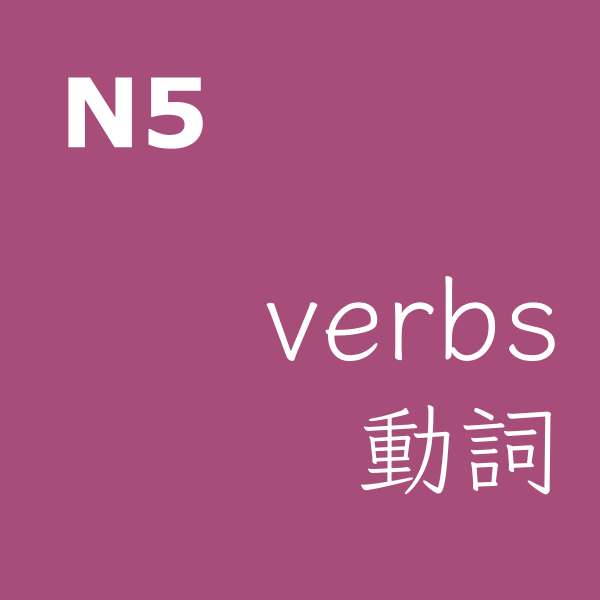
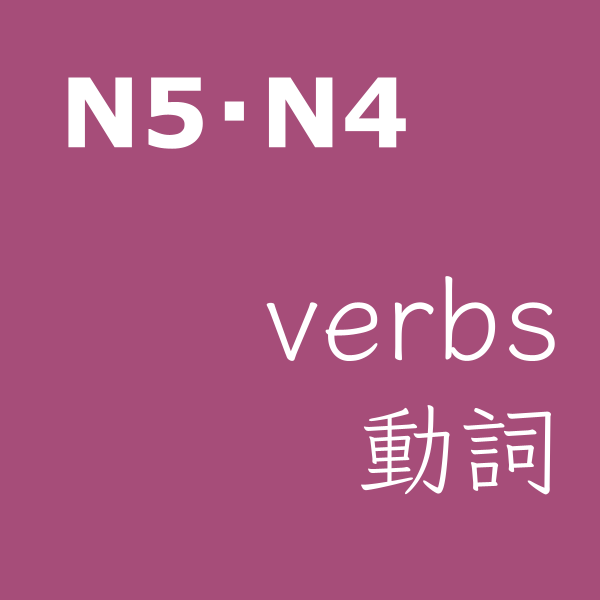
N5-N4 verb and adjectives merged

Changed region(s): [[0.45, 0.12, 0.69, 0.27], [0.36, 0.15, 0.42, 0.21]]

diff --git a/N5_Adjectives.html b/N5_Adjectives.html
@@ -5,7 +5,7 @@
     <meta name="author" content="Shovon Hasan">
     <meta name="copyright" content="©2024 株式会社LifeArk">
     <meta name="viewport" content="width=device-width, initial-scale=1.0">
-    <title>LifeArk Japanese education: N5 Adjectives</title>
+    <title>LifeArk Japanese education: N5・N4 Adjectives</title>
     <link href="https://fonts.googleapis.com/css2?family=Klee+One:wght@400;600&display=swap" rel="stylesheet">
     <link rel="stylesheet" href="css/common.css">
     <link rel="stylesheet" href="css/game.css">
@@ -49,10 +49,10 @@
         <div id="words_list-container">
             <div class="header-image">
                 <img src="assets/image/LifeArk_Nihongo_logo.png" />
-                <h2 style="text-align: center; margin: 0px;">N5 বিশেষণ</h2>
+                <h2 style="text-align: center; margin: 0px;">N5・N4 বিশেষণ</h2>
             </div>
-            <button class="play-button" onclick="playWordMeaningGame('N5 Adjectives: word meaning')">Play Game (word meaning)</button>
-            <button class="play-button" onclick="playFillBlankGame('N5 Adjectives: fill blank')">Play Game (fill blank)</button>
+            <button class="play-button" onclick="playWordMeaningGame('N5・N4 Adjectives: word meaning')">Play Game (word meaning)</button>
+            <button class="play-button" onclick="playFillBlankGame('N5・N4 Adjectives: fill blank')">Play Game (fill blank)</button>
         </div>
         <div id="range_selection-container">
             <h3 style="text-align: center;">Choose the question range</h3>
@@ -110,7 +110,8 @@
         let itemsData = {};
         let itemCounter = null;
 
-        let quizData = {};
+        let quizData_N5 = {};
+        let quizData_N4 = {};
         let wordMeaning_GameData = {};
         let fillBlank_GameData = {};
 
@@ -216,11 +217,11 @@
         }
 
         function prepareFillBlankGameData() {
-            let index = 0;
+            const mergedQuizDataArray = [...Object.values(quizData_N5), ...Object.values(quizData_N4)];
 
-            Object.keys(quizData).forEach(key => {
-                const quizItem = quizData[key];
-                if (quizItem.category === 'adjective' || quizItem.category === 'adverb') {
+            let index = 0;
+            mergedQuizDataArray.forEach(quizItem => {
+                if (quizItem.category === 'adjective') {
                     fillBlank_GameData[index] = {};
                     fillBlank_GameData[index].question = {};
                     fillBlank_GameData[index].question.text = quizItem.question;
@@ -233,7 +234,7 @@
         }
 
         document.addEventListener('DOMContentLoaded', function() {
-            fetch('data/adjectives_N5.json')
+            fetch('data/adjectives_N5-N4.json')
                 .then(response => response.json())
                 .then(data => {
                     itemsData = data;
@@ -249,7 +250,13 @@
             fetch('data/vocabulary_N5_quiz.json')
                 .then(response => response.json())
                 .then(data => {
-                    quizData = data;
+                    quizData_N5 = data;
+
+                    return fetch('data/vocabulary_N4_quiz.json');
+                })
+                .then(response => response.json())
+                .then(data => {
+                    quizData_N4 = data;
 
                     prepareFillBlankGameData();
                 })

diff --git a/N5_Verbs.html b/N5_Verbs.html
@@ -5,7 +5,7 @@
     <meta name="author" content="Shovon Hasan">
     <meta name="copyright" content="©2024 株式会社LifeArk">
     <meta name="viewport" content="width=device-width, initial-scale=1.0">
-    <title>LifeArk Japanese education: N5 Verbs</title>
+    <title>LifeArk Japanese education: N5・N4 Verbs</title>
     <link href="https://fonts.googleapis.com/css2?family=Klee+One:wght@400;600&display=swap" rel="stylesheet">
     <link rel="stylesheet" href="css/common.css">
     <link rel="stylesheet" href="css/game.css">
@@ -52,10 +52,10 @@
         <div id="words_list-container">
             <div class="header-image">
                 <img src="assets/image/LifeArk_Nihongo_logo.png" />
-                <h2 style="text-align: center; margin: 0px;">N5 ক্রিয়া</h2>
+                <h2 style="text-align: center; margin: 0px;">N5・N4 ক্রিয়া</h2>
             </div>
-            <button class="play-button" onclick="playWordMeaningGame('N5 verbs: word meaning')">Play Game (word meaning)</button>
-            <button class="play-button" onclick="playFillBlankGame('N5 verbs: fill blank')">Play Game (fill blank)</button>
+            <button class="play-button" onclick="playWordMeaningGame('N5・N4 verbs: word meaning')">Play Game (word meaning)</button>
+            <button class="play-button" onclick="playFillBlankGame('N5・N4 verbs: fill blank')">Play Game (fill blank)</button>
         </div>
         <div id="range_selection-container">
             <h3 style="text-align: center;">Choose the question range</h3>
@@ -113,7 +113,8 @@
         let itemsData = {};
         let itemCounter = null;
 
-        let quizData = {};
+        let quizData_N5 = {};
+        let quizData_N4 = {};
         let wordMeaning_GameData = {};
         let fillBlank_GameData = {};
 
@@ -221,10 +222,10 @@
         }
 
         function prepareFillBlankGameData() {
-            let index = 0;
+            const mergedQuizDataArray = [...Object.values(quizData_N5), ...Object.values(quizData_N4)];
 
-            Object.keys(quizData).forEach(key => {
-                const quizItem = quizData[key];
+            let index = 0;
+            mergedQuizDataArray.forEach(quizItem => {
                 if (quizItem.category === 'verb') {
                     fillBlank_GameData[index] = {};
                     fillBlank_GameData[index].question = {};
@@ -255,7 +256,13 @@
             fetch('data/vocabulary_N5_quiz.json')
                 .then(response => response.json())
                 .then(data => {
-                    quizData = data;
+                    quizData_N5 = data;
+
+                    return fetch('data/vocabulary_N4_quiz.json');
+                })
+                .then(response => response.json())
+                .then(data => {
+                    quizData_N4 = data;
 
                     prepareFillBlankGameData();
                 })

diff --git a/index.html b/index.html
@@ -139,12 +139,12 @@
                 <p>N5 শব্দাবলী</p>
             </a>
             <a href="N5_Adjectives.html" class="app-item" target="_blank">
-                <img src="assets/image/app_icons/icon-N5_adjectives.png" alt="N5 বিশেষণ">
-                <p>N5 বিশেষণ</p>
+                <img src="assets/image/app_icons/icon-N5-N4_adjectives.png" alt="N5・N4 বিশেষণ">
+                <p>N5・N4 বিশেষণ</p>
             </a>
             <a href="N5_Verbs.html" class="app-item" target="_blank">
-                <img src="assets/image/app_icons/icon-N5-N4_verbs.png" alt="N5 ক্রিয়া">
-                <p>N5 ক্রিয়া</p>
+                <img src="assets/image/app_icons/icon-N5-N4_verbs.png" alt="N5・N4 ক্রিয়া">
+                <p>N5・N4 ক্রিয়া</p>
             </a>
             <a href="N5_Kanji.html" class="app-item" target="_blank">
                 <img src="assets/image/app_icons/icon-N5_kanji.png" alt="N5 Kanji">
